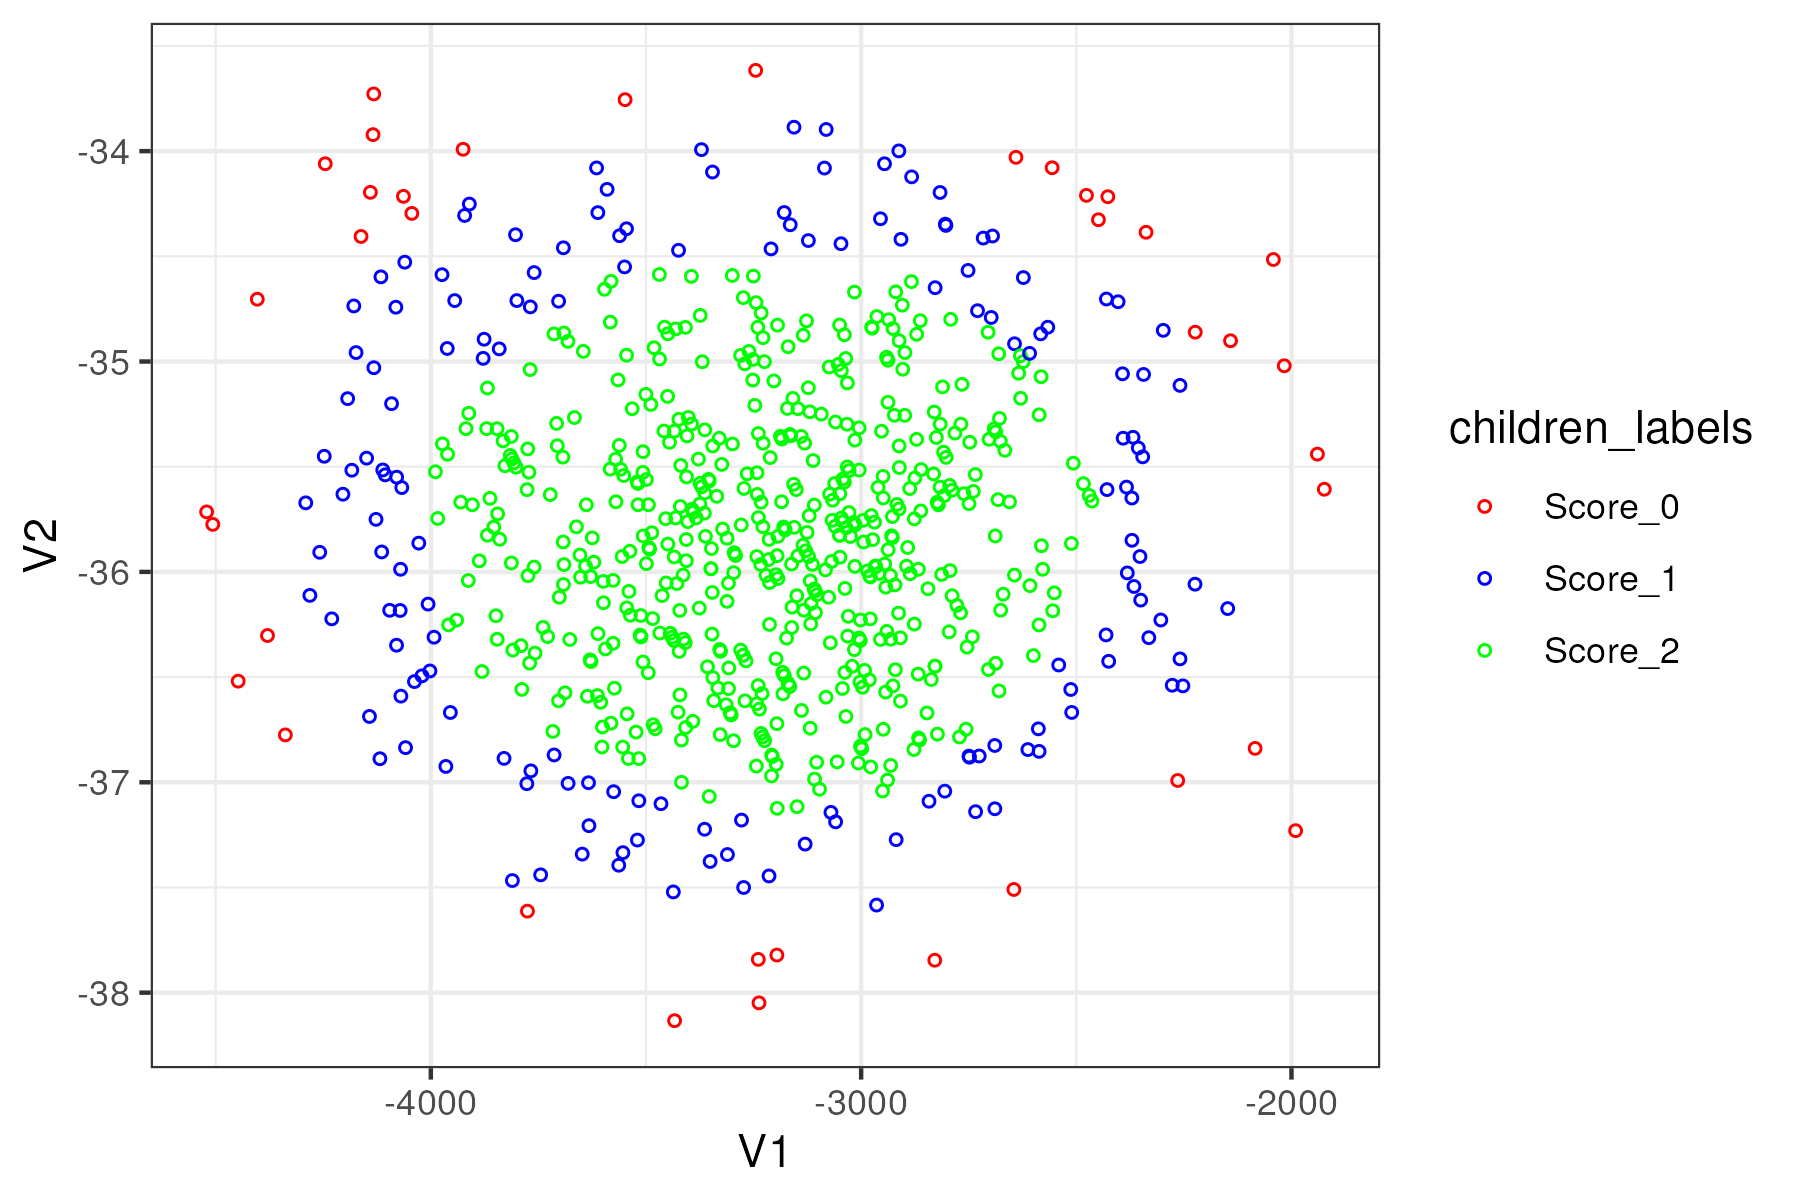
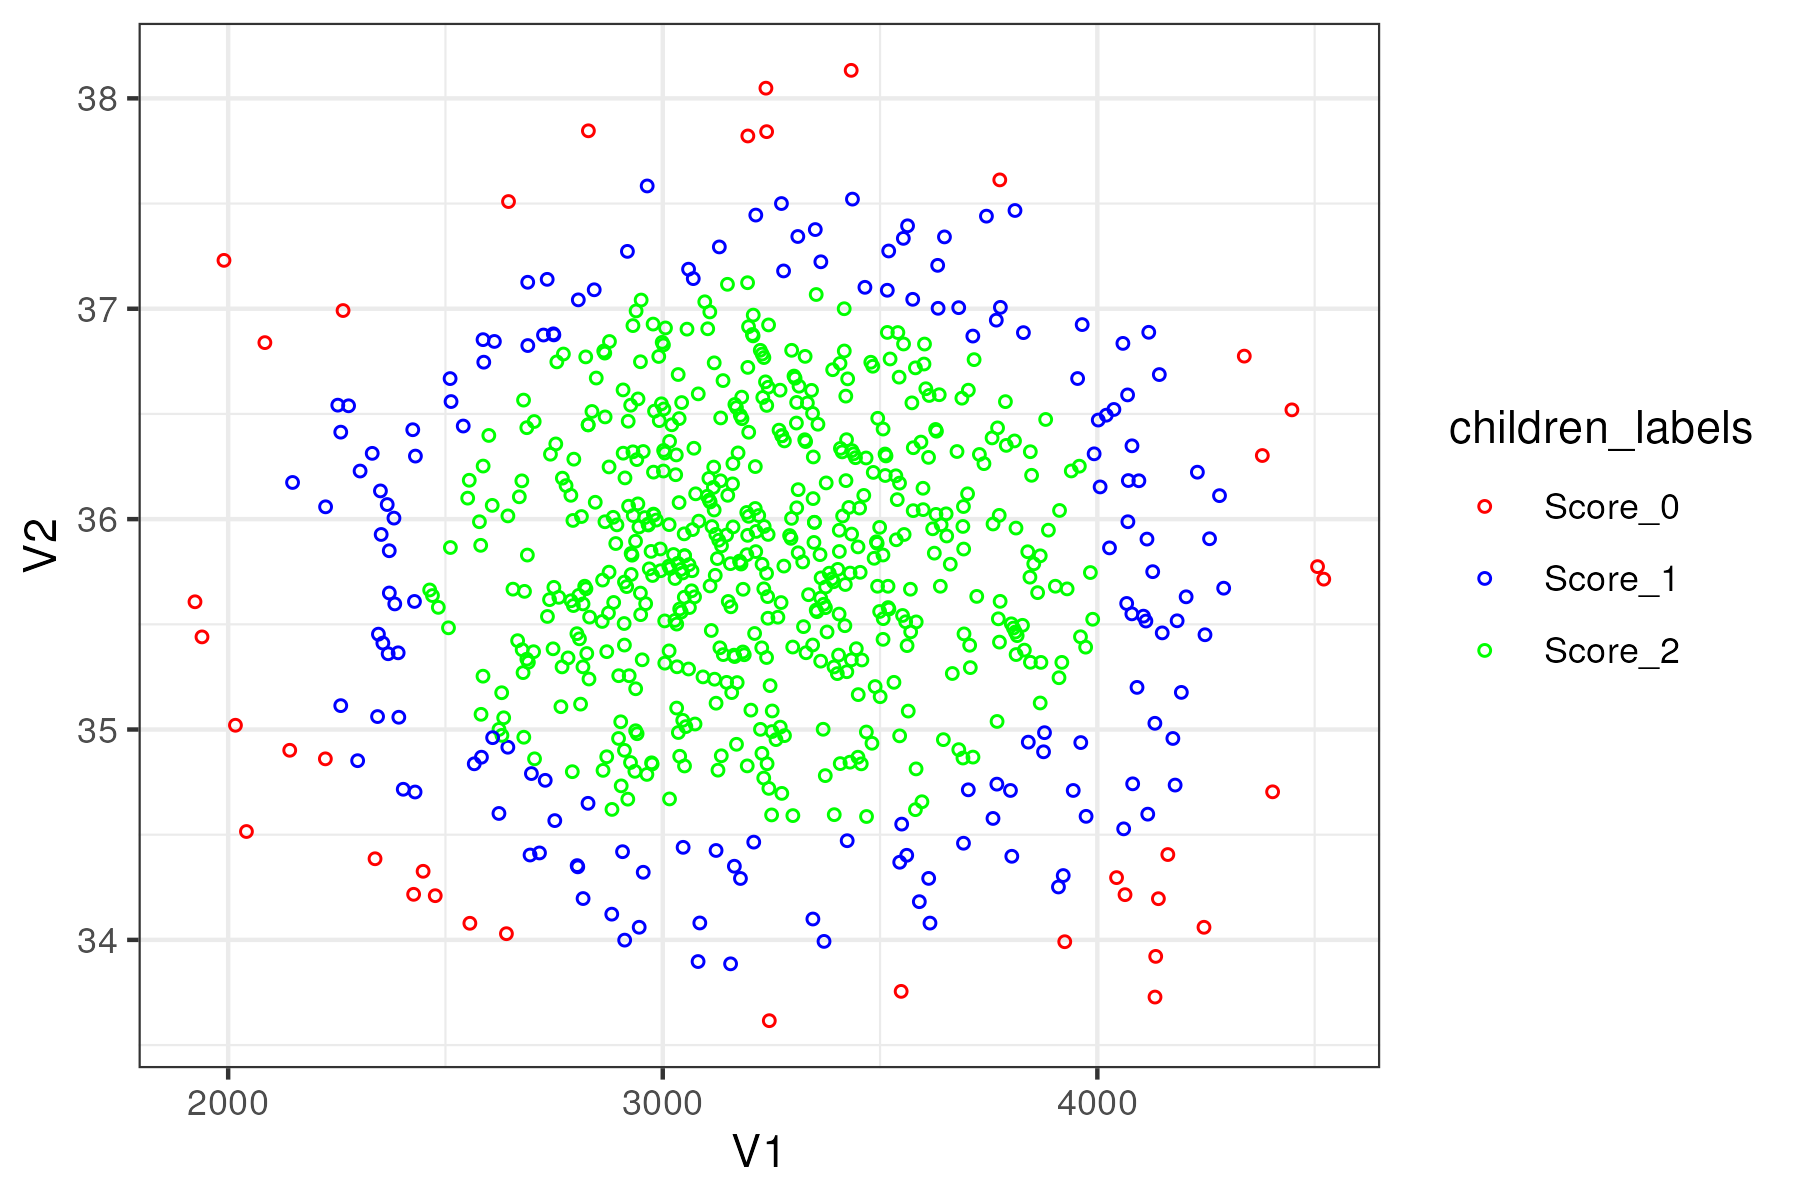
Add List 1 Project Part 1

diff --git a/List 1/Grabinski_Pawel_report_1.md b/List 1/Grabinski_Pawel_report_1.md
@@ -326,3 +326,58 @@ A random sample of records for 736 recently born children (singleton and not pre
 born) has been considered from hospital across a certain region. The records contain a
 large variety of information but extraction of weight and height data are given in the file
 WeightHeight.txt.
+
+### Part 1
+#### 1. Using the data estimate the mean and the covariance for the length and the weight of children.
+
+As given in the notes from the lecture, the sample mean is:
+$$\bar{\mu}=\frac{1}{n_{sample}}\sum_{i}^{n_{sample}}\begin{bmatrix} W_i \\ L_i \end{bmatrix}$$
+In our case:
+$$\bar{\mu}=\begin{bmatrix} 3233.55\; g \\ 49.24\; cm \end{bmatrix}$$
+
+Similarly, the sample covariance matrix is:
+$$
+\bar{\Sigma}=\frac{1}{n_{sample}-1}\sum_{i}^{n_{sample}}\left(\begin{bmatrix} W_i \\ L_i \end{bmatrix}-\bar{\mu}\right)\left(\begin{bmatrix} W_i \\ L_i \end{bmatrix}-\bar{\mu}\right)^T
+$$
+For this data it is:
+$$
+\bar{\Sigma} = \begin{bmatrix}220276.7 & 915.3 \\ 915.3 & 4.44 \end{bmatrix}
+$$
+#### 2. Verify graphically normal distribution of the data. Use a scatterplot and qq-plots for the marginal distributions.
+
+The scatter plot of the data is:
+![Children data scatter plot](children_data.png)
+We can see that the data is highly correlated.
+
+The qq-plot for the length marginal distribution:
+![Children length qq plot](length_qqplot.png)
+
+The qq-plot for the weight marginal distribution:
+![Children weight qq plot](weight_qqplot.png)
+
+We can see that the data is normally distributed.
+
+#### 3. Find the ellipsoids that would serve classification regions for scores as described above.
+
+![Children ellipses](children_classified.png)
+
+#### 4. How many children would score zero, one, and two, respectively? Illustrate this classification on the graphs.
+
+| Score | Number of children |
+|-------|--------------------|
+| 0     | 38                 |
+| 1     | 157                |
+| 2     | 541                |
+
+#### 5. Find the spectral decomposition of the estimated covariance matrix.
+The spectral decomposition of the estimated covariance matrix is:
+$$\bar{\Sigma} = 2.2\cdot 10^5\begin{bmatrix}1\\ 4.15\cdot 10^{-3}  \end{bmatrix}\begin{bmatrix}1\\ 4.15\cdot 10^{-3}  \end{bmatrix}^T
++ 0.64 \begin{bmatrix}-4.15\cdot 10^{-3}\\ 1  \end{bmatrix}\begin{bmatrix}-4.15\cdot 10^{-3}\\ 1  \end{bmatrix}^T\\
+=\begin{bmatrix} 220276.6577 & 915.298170 \\ 915.2982 & 3.803266 \end{bmatrix} + \begin{bmatrix} 1.105078\cdot 10^{-5} & -2.659494\cdot 10^{-3} \\ -2.659494\cdot 10^{-3} & 0.640036621 \end{bmatrix}$$
+
+#### 6. Plot the data transformed according to $P^TX$, where $P$ is the matrix made of the eigenvectors standing as the columns. Interpret the transformed data.
+
+The transformed data seems to be decorellated - the constant-density elipsoids would be much more round than the original ones. The data is transformed into the eigenvector space, where the covariance matrix is diagonal.
+
+![Children transformed data](deentanlged_children.png)
+
